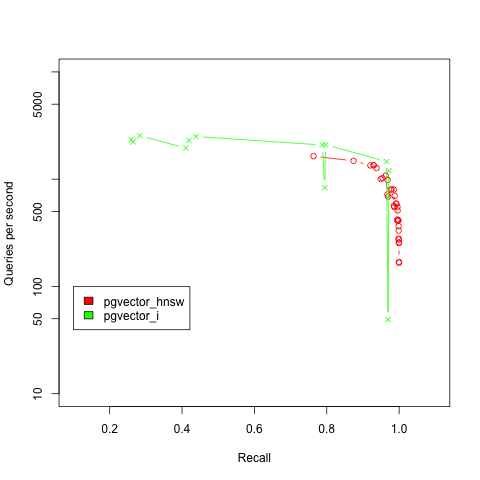
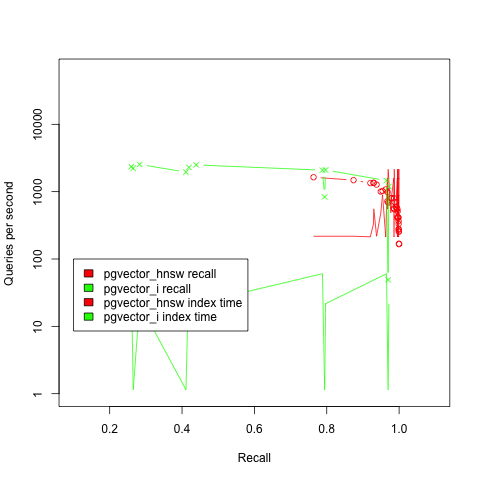
Glove-100-a benchmark result added

diff --git a/README.md b/README.md
@@ -69,5 +69,9 @@ Dataset lastfm (angular distance, query 10 rows).
 ![Benchmark](results/lastfm/10/benchmark.png?raw=true "Benchmark")
 
 
+Dataset glove-100-angular (angular distance, query 10 rows).
+
+![Benchmark](results/glove-100-a/10/benchmark.png?raw=true "Benchmark")
+
 
 
